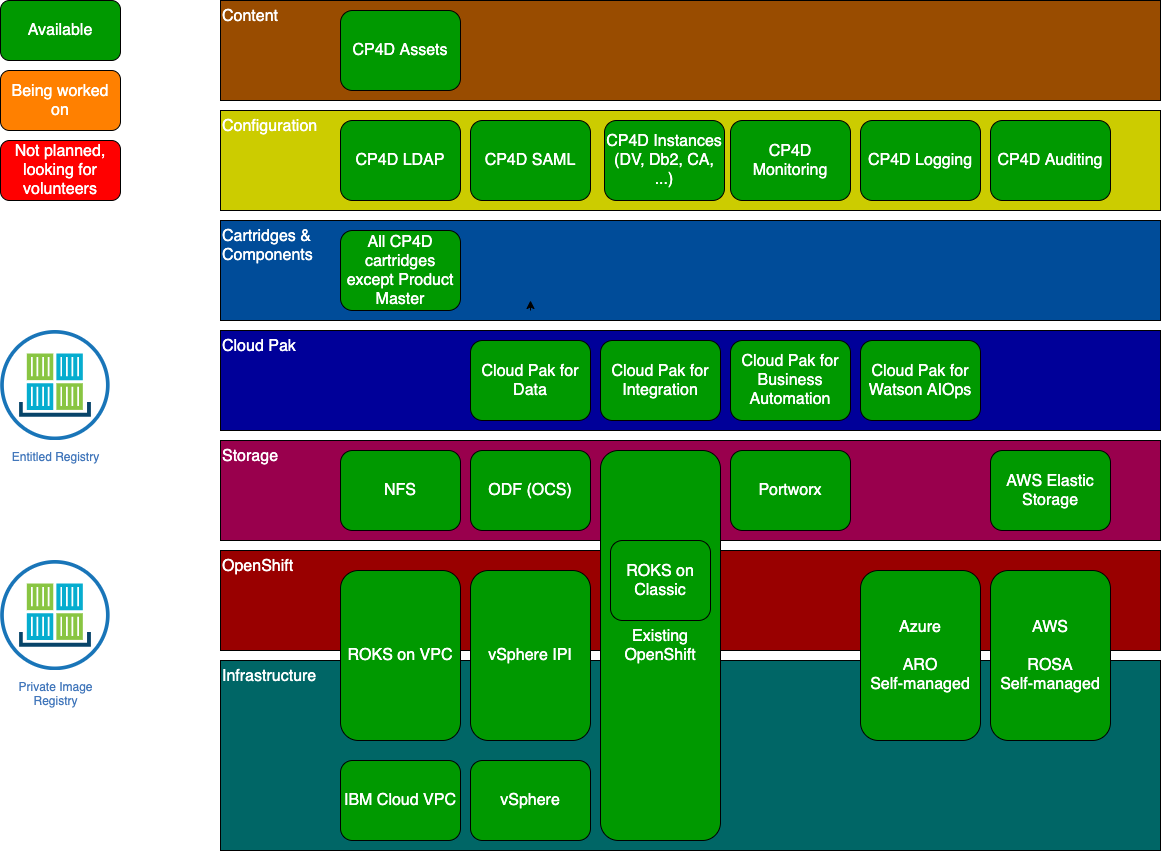
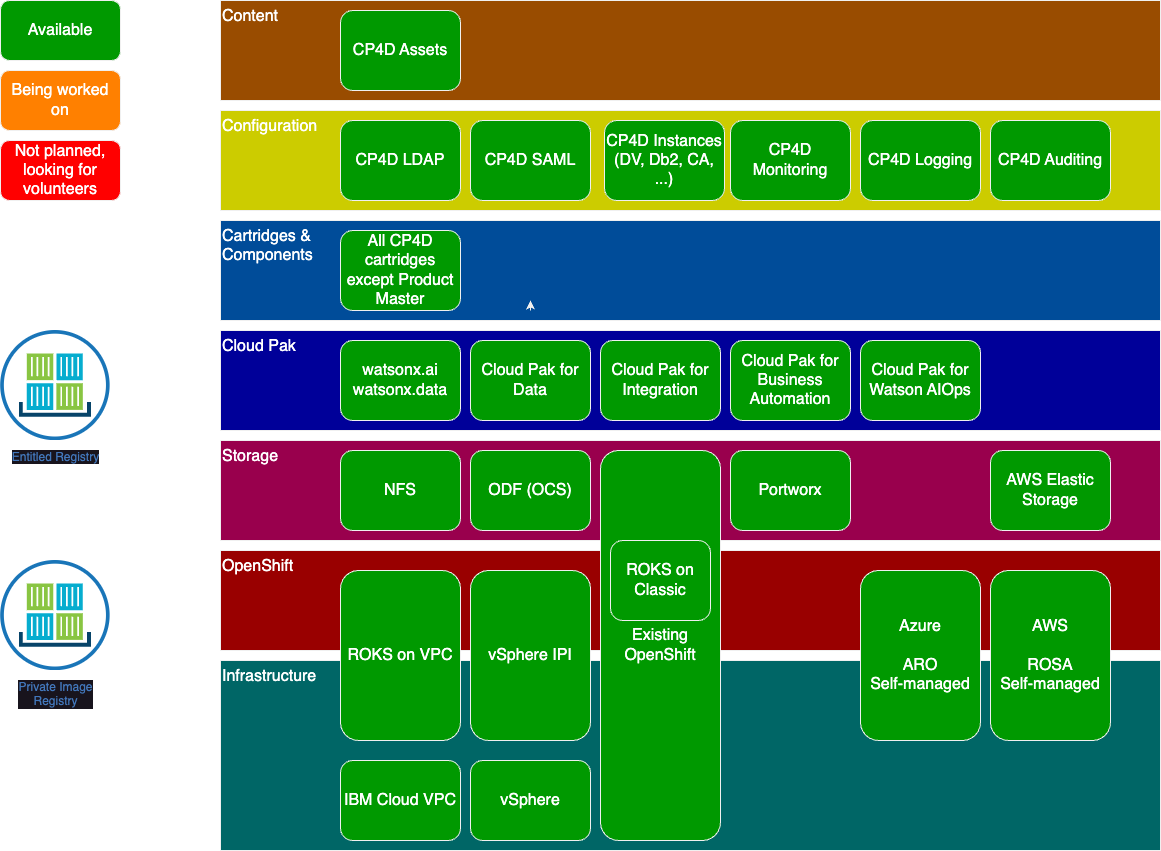
#581 Add watsonx.ai to current state

diff --git a/docs/src/index.md b/docs/src/index.md
@@ -1,29 +1,29 @@
 # Cloud Pak Deployer
-The intention of the Cloud Pak Deployer is to simplify the initial installation and also continuous management of OpenShift and the Cloud Paks on top of that, driven by automation. It will help you deploy Cloud Pak for Data, Cloud Pak for Integration, Cloud Pak for Business Automation and Cloud Pak for Watson AIOps on various OpenShift and infrastructures such as IBM Cloud ROKS, Azure Red Hat OpenShift (ARO), Red Hat OpenShift on AWS (ROSA), vSphere and also existing OpenShift.
+The intention of the Cloud Pak Deployer is to simplify the initial installation and also continuous management of OpenShift, watsonx and the IBM Cloud Paks on top of that, driven by automation. It will help you deploy watsonx, Cloud Pak for Data, Cloud Pak for Integration, Cloud Pak for Business Automation and Cloud Pak for Watson AIOps on various OpenShift and infrastructures such as IBM Cloud ROKS, Azure Red Hat OpenShift (ARO), Red Hat OpenShift on AWS (ROSA), vSphere and also existing OpenShift.
 
-The Cloud Pak Deployer was created for a joint project with one of our key partners who need to fully automate the deployment of Cloud Paks on IBM Cloud based on a configuration that is kept in a Git repository. As additional needs for the deployed environment surface, the configuration is changed, committed, approved and then changes are deployed without destroying the current environment.
+The Cloud Pak Deployer was created for a joint project with one of our key partners who need to fully automate the deployment of IBM containerized software based on a configuration that is kept in a Git repository. As additional needs for the deployed environment surface, the configuration is changed, committed, approved and then changes are deployed without destroying the current environment.
 
 > "If we have seen a screen during deployment, it means something has failed"
 
-Not all Cloud Pak implementations require governance using the previously described GitOps approach. We also wanted to accelerate Cloud Pak deployment for POCs, MVPs and services engagements using the same tool. **Simple by default, flexible when needed**
+Not all software implementations require governance using the previously described GitOps approach. We also wanted to accelerate containerized software deployment for POCs, MVPs and services engagements using the same tool. **Simple by default, flexible when needed**
 
 Cloud Pak Deployer has been designed with the following key principles in mind:
 
 ![Deployment](images/cpd-deployment.png)
 
-Every deployment starts with a set of configuration files which define the infrastructure, OpenShift cluster and Cloud Pak to be installed. The Cloud Pak Deployer reads the configuration from the specified directory, and secrets which are kept in a vault, and does whatever it needs to do to reach the desired end state. During the deployment, new secrets may be created and these are also stored in the vault. In its simplest form, the vault is a flat file in the specified status directory, but you can also choose to keep the secrets in HashiCorp Vault or the Vault service on IBM Cloud.
+Every deployment starts with a set of configuration files which define the infrastructure, OpenShift cluster and Cloud Pak or watsonx to be installed. The Cloud Pak Deployer reads the configuration from the specified directory, and secrets which are kept in a vault, and does whatever it needs to do to reach the desired end state. During the deployment, new secrets may be created and these are also stored in the vault. In its simplest form, the vault is a flat file in the specified status directory, but you can also choose to keep the secrets in HashiCorp Vault or the Vault service on IBM Cloud.
 
 ![Key principles](images/cpd-principles.png "Cloud Pak Deployer principles").
 
-As long as you keep the configuration directory and the vault available, you can make changes to the config and re-run the deployer to reach the new desired end state. For example, if you choose to add another cartridge (service) to your Cloud Pak for Data deployment, just change the `state` of that cartridge and re-run the deployer; this applies to other Cloud Paks too.
+As long as you keep the configuration directory and the vault available, you can make changes to the config and re-run the deployer to reach the new desired end state. For example, if you choose to add another cartridge (service) to your Cloud Pak deployment, just change the `state` of that cartridge and re-run the deployer; this applies to other Cloud Paks too.
 
 ## Opinionated
-Red Hat OpenShift and IBM Cloud Paks offer a wide variety of deployment and configuration options. It is the intention of the Cloud Pak Deployer to simplify the deployment by focusing on proven deployment patterns. As an example: for a non-highly available deployment of the Cloud Pak, we use an NFS storage class; for a production deployment, we use OpenShift Container Storage (aka OpenShift Data Foundation).
+Red Hat OpenShift, watsonx and IBM Cloud Paks offer a wide variety of deployment and configuration options. It is the intention of the Cloud Pak Deployer to simplify the deployment by focusing on proven deployment patterns. As an example: for a non-highly available deployment of the Cloud Pak, we use an NFS storage class; for a production deployment, we use OpenShift Container Storage (aka OpenShift Data Foundation).
 
 Choosing from proven deployment patterns improves the probability for a straightforward installation without surprises.
 
 ## Declarative and desired end-state
-It is our intention to deploy a combination of OpenShift and Cloud Pak based on a (set of) configuration file(s) that describe the desired end-state. Although the deployment pipeline follows a pre-defined flow, as a user you do not necessarily need to know what happens under the hood. Instead, you have entered the destination (end-state) you want the deployment to have and the deployer will take care of getting you there.
+It is our intention to deploy a combination of OpenShift and containerized software based on a (set of) configuration file(s) that describe the desired end-state. Although the deployment pipeline follows a pre-defined flow, as a user you do not necessarily need to know what happens under the hood. Instead, you have entered the destination (end-state) you want the deployment to have and the deployer will take care of getting you there.
 
 ## Idempotent
 Idempotence goes hand in hand with the desired end-state principle of the Cloud Pak Deployer. Basically, we're saying: if we make multiple identical requests, we will still arrive at the same end-state, and (very important): if nothing needs to change, don't change. As an example of what that means: say that there was a timeout in the provisioning process because the OpenShift cluster could not be created within the pre-defined timeframe and other resources were successfully created. When the deployer is re-run, it will leave the successfully created resources alone and will not delete or change them, but rather continue the provisioning pipeline.
